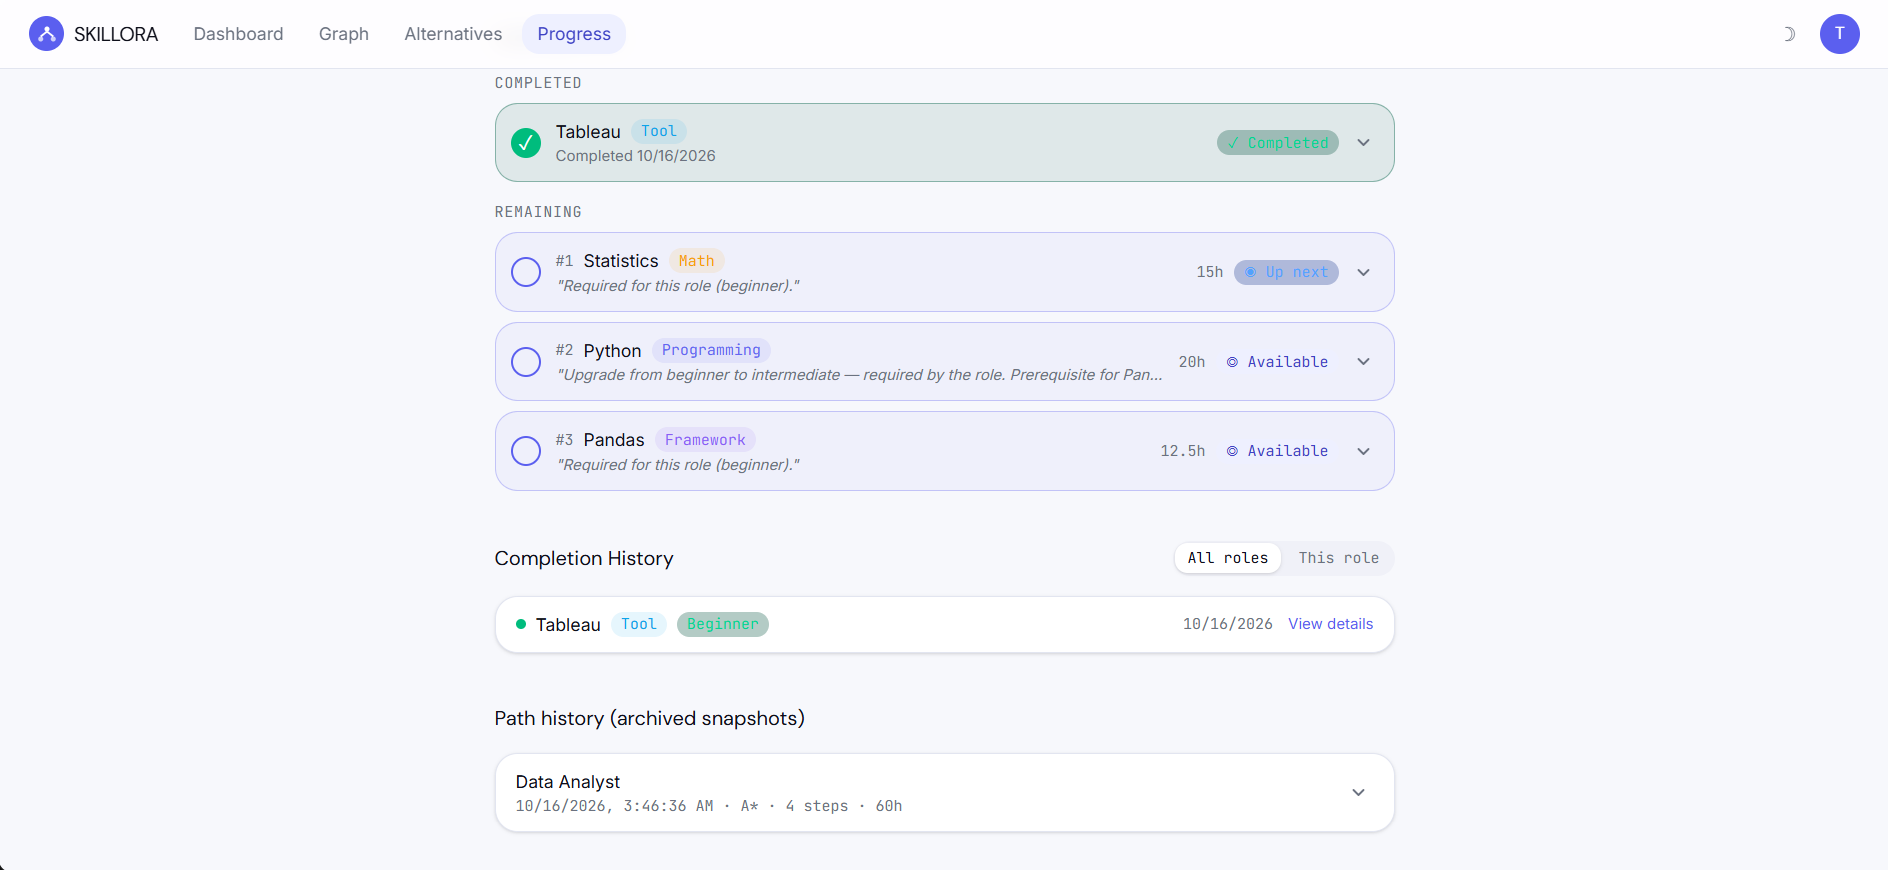
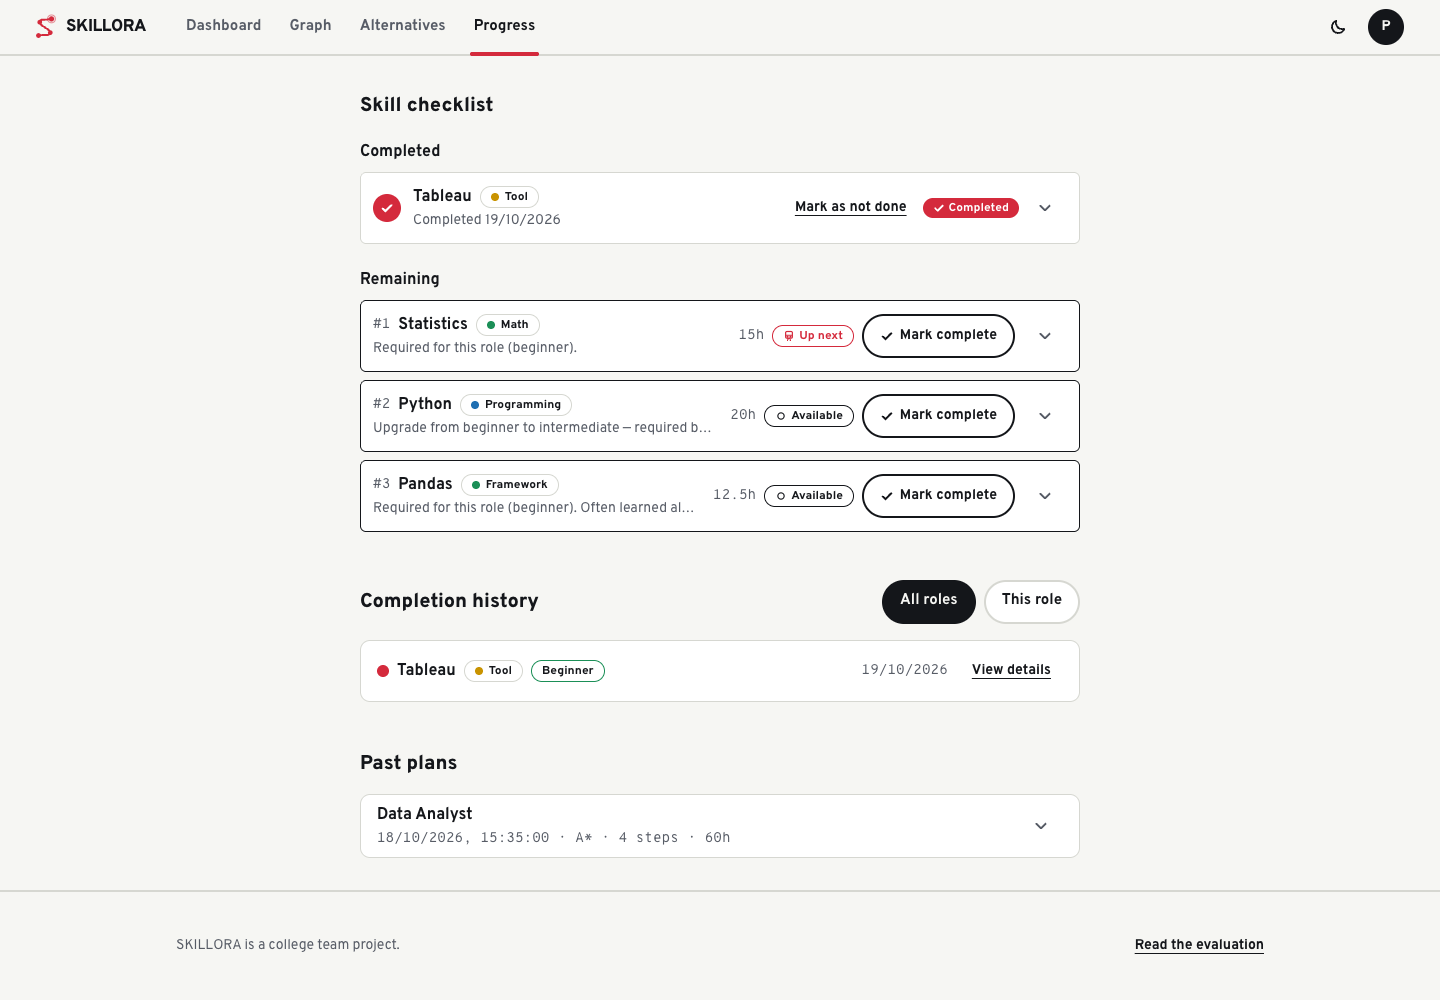
docs: live URLs, deployment architecture and refreshed user-guide screenshots

diff --git a/docs/USER_GUIDE.md b/docs/USER_GUIDE.md
@@ -2,7 +2,7 @@
 
 > **Status:** v1.1 · deliverable D7 (user guide) · wording matches the Transit interface (v4.2)
 >
-> **Note:** the screenshots below were taken before the Transit redesign. They will be refreshed after the first deployment; where a picture and the text differ, the text is current.
+> **Live app:** <https://skillora-black.vercel.app>. The screenshots below show the current Transit interface in light mode (plus one dark-mode view), taken with sample data for the worked example.
 
 SKILLORA builds you a personal, ordered learning roadmap for the job role you want. You tell it what you already know, pick a role, and it works out the shortest sensible sequence of skills to learn, explains why each one is there, and updates the plan as you make progress.
 
@@ -46,25 +46,25 @@ Go to **Settings → Account → Sign out**. This ends your session on the serve
 
 ## 2. Onboarding
 
-Onboarding has two steps, shown at the top of the page: **Your Skills** and **Target Role**.
+Onboarding has two steps, shown at the top of the page: **Your skills** and **Your destination**.
 
 ### Step 1: Your skills
 
-Tick every skill you already have. Skills are grouped by domain (Cloud, Database, Programming, Tool…), and each card shows roughly how many hours it takes to learn. Use the search box to find a skill quickly.
+Pick every skill you already have. Skills are grouped by domain (Cloud, Concept, Database, Programming, Tool…), and each one shows roughly how many hours it takes to learn. Use the search box to find a skill quickly.
 
-When you tick a skill, choose how well you know it: **beginner**, **intermediate** or **advanced**. Be honest but don't undersell yourself. A higher level can remove whole steps from your roadmap.
+Chosen skills appear in the **Your stations** panel, where you set how well you know each one: **beginner**, **intermediate** or **advanced**. Be honest but don't undersell yourself. A higher level can remove whole steps from your roadmap.
 
-In the example, Python is ticked at *beginner* and SQL at *intermediate*. New to everything? Click **I'm starting from scratch**.
+The **Next departures** board below it shows what your skills open up next. In the example, Python is set at *beginner* and SQL at *intermediate*. New to everything? Click **I'm starting from scratch**.
 
 ![Choosing skills and proficiency](user-guide/03-onboarding-skills.png)
 
-Click **Next: Pick your role**.
+Click **Next: choose your destination**.
 
 ### Step 2: Target role
 
-Each role card shows its field, a short description, its **market demand** bar and how many of its requirements you already meet (**has / needs**, for example *1/5 requirements met*). Click **Details** to see exactly which skills and levels the role requires. Sort or search to narrow the list.
+Roles are listed by field. Each row shows the role's **market demand** (for example *High demand*) and how many of its requirements you already meet (**has / needs**, for example *1/5 requirements met*). Click **Requirements** to see a short description and exactly which skills and levels the role requires, each marked *Have it*, *Need it* or *Have Beginner, need Intermediate*. Where any one of several tools will do (such as Power BI or Tableau) it says so. Sort or search to narrow the list.
 
-Select a role and click **Generate my path**.
+Click a role to select it (it is marked *Selected*), then click **Generate my path** at the bottom of the page.
 
 ![Choosing a target role](user-guide/04-onboarding-role.png)
 
@@ -82,12 +82,12 @@ The dashboard is your home page. It shows your roadmap as a metro line: each ski
 - **Journey line.** A single horizontal line with a train showing how far along you are ("% of the way there") and how many stops are done.
 - **Your stops.** Your skills in the order to learn them, drawn along the line. Each stop shows:
   - its estimated hours;
-  - its status: **Up next** (the one to start now), **Available** (prerequisites done) or **Locked** (an earlier stop is still needed);
+  - its state, shown by the marker on the line: **Up next** (the one to start now), **Available** (prerequisites done) or **Locked** (an earlier stop is still needed, with a line such as "Needs Python first");
   - the level change, e.g. *New → Beginner* or *Beginner → Intermediate*;
   - a plain reason why it is there, such as "Required for this role" or "Tableau route is 5h cheaper than Excel → Power BI route".
   Select a stop to open its skill details.
-- **Other routes.** If more than one route exists, a short preview with **Select this path**.
-- **Service status.** Time left, whether the order is valid (no stop comes before what it needs) and whether your plan is up to date.
+- **Other routes.** If more than one route exists, a short preview (hours, demand, score, and which skills it adds or drops) with **Select this path**.
+- **Service status.** Time left, whether the order is valid (no stop comes before what it needs) and whether your plan is up to date. Scroll down to see it.
 
 To record that you've learned a skill, open **Progress** and mark it complete there.
 
@@ -95,26 +95,30 @@ To record that you've learned a skill, open **Progress** and mark it complete th
 
 ## 4. Comparing alternatives
 
-Some roles let you choose between skills. The Data Analyst role needs *a* BI tool: Power BI **or** Tableau. Each choice gives a different route. Open **Alternatives** in the top bar (or **Compare paths** on the dashboard) to see them side by side.
+Some roles let you choose between skills. The Data Analyst role needs *a* BI tool: Power BI **or** Tableau. Each choice gives a different route. Open **Alternatives** in the top bar (or **Compare paths** on the dashboard) to see them side by side. The screenshot is cut off after the first charts; scroll the page for the rest.
 
 ![Comparing alternative paths](user-guide/06-alternatives.png)
 
-Each route card shows:
+The page has three parts:
 
-- **Hours**: total learning time for the remaining steps.
-- **Demand**: the average market demand of the skills on that route.
-- **Score**: a combined ranking. It mixes time (70 %) and demand (30 %): `0.7 × hours/maxHours + 0.3 × (1 − demand)`. **Lower is better.** The best-scoring route is marked *recommended*.
-- **Sequence**: the skills in order, with hours each.
+- **The routes on one map.** Every route is drawn as a line (your route in red, alternatives in other colours). Skills on every route sit where the lines meet; skills that belong to only one route are labelled *Primary only* or *Alternative 1 only*, each with its hours.
+- **Compare the routes.** One row per route showing:
+  - **Time**: total learning hours for the remaining steps.
+  - **Demand**: the average market demand of the skills on that route.
+  - **Stops**: how many skills it contains.
+  - **Score**: a combined ranking. It mixes time (70 %) and demand (30 %): `0.7 × hours/maxHours + 0.3 × (1 − demand)`. **Lower is better.** The best-scoring route is marked *recommended*.
+  - What the route chooses instead of the primary one (for example "Chooses Excel, Power BI instead of Tableau").
+- **Hours against demand.** A chart placing each route by hours and market demand.
 
 Click **Select this path** to switch to another route; your dashboard and progress follow it. Your active route is marked **Currently selected**.
 
-> In the screenshot the learner has already finished Tableau, so only one route is left ("Only one route exists for your profile"). Before that, the same page showed two routes: *Tableau* (60 h) and *Excel → Power BI* (65 h).
+> In the screenshot the learner has not started yet, so two routes exist: *Tableau* (60 h, primary) and *Excel → Power BI* (65 h). Once Tableau is finished, only one route is left ("Only one route exists for your profile").
 
 ---
 
 ## 5. Tracking progress
 
-Open **Progress** in the top bar.
+Open **Progress** in the top bar. The page is titled **Journey log**. The screenshots show the learner after finishing Tableau.
 
 ![Progress overview](user-guide/07-progress.png)
 

diff --git a/docs/DEPLOYMENT.md b/docs/DEPLOYMENT.md
@@ -44,10 +44,10 @@ Do the steps in this order. The Render services need the Vercel URL for `CLIENT_
    - `skillora-api`: `MONGO_URI`, `JWT_SECRET`, `INTERNAL_API_KEY`, `CLIENT_ORIGIN`, `PYTHON_SERVICE_URL`
    - `skillora-path`: `MONGO_URI`, `INTERNAL_API_KEY` (the same value as on the API)
 4. For `CLIENT_ORIGIN` enter `http://localhost:5173` for now; you will change it in step 3.
-5. For `PYTHON_SERVICE_URL` enter the public URL of the path service, `https://skillora-path.onrender.com` (the name in `render.yaml` decides the subdomain; if Render adds a suffix because the name is taken, use the URL shown on the `skillora-path` page).
+5. For `PYTHON_SERVICE_URL` enter the public URL of the path service, `https://skillora-path.onrender.com` for this deployment (the name in `render.yaml` decides the subdomain; if Render adds a suffix because the name is taken, use the URL shown on the `skillora-path` page).
 6. Apply. Wait for both services to be **Live**. Check:
-   - `https://skillora-api.onrender.com/api/stats/public` returns the skill and role counts.
-   - `https://skillora-api.onrender.com/api/docs` shows Swagger.
+   - `https://skillora-api-i3cs.onrender.com/api/stats/public` returns the skill and role counts.
+   - `https://skillora-api-i3cs.onrender.com/api/docs` shows Swagger.
    - `https://skillora-path.onrender.com/health` returns `"graphLoaded": true`.
 
 > **Why `PYTHON_SERVICE_URL` is typed in, not wired automatically.** Render can inject a service's private `host:port` with `fromService`/`hostport`, but that has no scheme and relies on private networking between sleeping free services. A plain public URL is the simplest reliable option. (The API also accepts a value with no scheme and adds `http://`, so the private form would work if you ever switch.)
@@ -57,15 +57,15 @@ Do the steps in this order. The Render services need the Vercel URL for `CLIENT_
 1. In Vercel choose **Add New, Project** and import the repository.
 2. **Root Directory:** `skillora-client`.
 3. **Framework Preset:** Vite (build command `npm run build`, output `dist`; the defaults are right).
-4. **Environment Variables:** `VITE_API_BASE_URL` = `https://skillora-api.onrender.com` (the API origin, no trailing path). This is required: the production build fails without it, because it also builds the page's Content-Security-Policy from this value.
-5. Deploy. Vercel gives you a URL such as `https://<your-app>.vercel.app`.
+4. **Environment Variables:** `VITE_API_BASE_URL` = `https://skillora-api-i3cs.onrender.com` (the API origin, no trailing path). This is required: the production build fails without it, because it also builds the page's Content-Security-Policy from this value.
+5. Deploy. Vercel gives you a URL such as `https://<your-app>.vercel.app` (this deployment: `https://skillora-black.vercel.app`).
 
 ### Step 3: set CLIENT_ORIGIN on Render
 
 Open the `skillora-api` service, Environment, and set `CLIENT_ORIGIN` to the Vercel URL. To keep local development working as well, give a comma-separated list:
 
 ```
-https://<your-app>.vercel.app,http://localhost:5173
+https://skillora-black.vercel.app,http://localhost:5173
 ```
 
 Use the exact origin: scheme and host, no path. A trailing slash is ignored. Save; Render redeploys the API.
@@ -91,7 +91,7 @@ Register, pick skills and a role, and confirm a path appears. The first request 
 | `INTERNAL_API_KEY` | yes (secret) | Sent to the path service as `X-Internal-Key`; must match the path service. |
 | `CLIENT_ORIGIN` | yes | Allowed browser origin(s) for CORS. One origin or a comma-separated list. Defaults to `http://localhost:5173`. |
 | `PYTHON_SERVICE_URL` | yes | Public URL of the path service. |
-| `PYTHON_TIMEOUT_MS` | preset `60000` | Timeout for path-service calls and the budget for waking it. |
+| `PYTHON_TIMEOUT_MS` | preset `90000` | Timeout for path-service calls and the budget for waking it. |
 | `JWT_EXPIRES_IN` | preset `7d` | Token lifetime. |
 | `NODE_ENV` | preset `production` | Enables proxy trust so rate limiting sees real client IPs. |
 | `PORT` | set by Render | Port the API binds to. Do not set it yourself. (On a Mac locally, use `5050`.) |
@@ -123,8 +123,8 @@ Run it once per secret. Use a **new** `JWT_SECRET` and a **new** `INTERNAL_API_K
 - To make the wait painless:
   - The landing, sign-in and register pages send one quiet request to `/api/stats/public`, which starts waking the API before you sign in.
   - When the API starts it pings the path service `/health` once.
-  - Before computing a path the API calls the path service `/health` and retries with backoff for up to about 60 s (never longer than `PYTHON_TIMEOUT_MS`), then makes the real call. If the service never answers, the usual 503 handling applies.
-  - The client waits up to 75 s for ordinary requests and 90 s for path computation, and after 4 s of waiting shows "Waking the planner — free hosting sleeps when idle. This can take up to a minute."
+  - Before computing a path the API calls the path service `/health` and retries with backoff for up to about 90 s (never longer than `PYTHON_TIMEOUT_MS`; a measured cold start of the path service took about 53 s), then makes the real call. If the service never answers, the usual 503 handling applies.
+  - The client waits up to 75 s for ordinary requests and 120 s for path computation, complete and undo, and after 4 s of waiting shows "Waking the planner — free hosting sleeps when idle. This can take up to a minute."
 - Vercel Hobby is free for non-commercial use and has no cold start for the static client.
 
 ## 6. Redeploys
@@ -152,12 +152,12 @@ The GitHub Student Pack includes a free `.me` domain for a year. In Vercel, Proj
 
 ## 9. Live URLs
 
-To be filled in after deployment.
-
 | What | URL |
 |---|---|
-| App | `https://<your-app>.vercel.app` |
-| API | `https://<your-api>.onrender.com` |
-| API docs | `https://<your-api>.onrender.com/api/docs` |
-| Path service | `https://<your-path-service>.onrender.com` |
-| Path service docs | `https://<your-path-service>.onrender.com/docs` |
+| App | https://skillora-black.vercel.app |
+| API | https://skillora-api-i3cs.onrender.com |
+| API docs (Swagger) | https://skillora-api-i3cs.onrender.com/api/docs |
+| Path service | https://skillora-path.onrender.com |
+| Path service docs (FastAPI) | https://skillora-path.onrender.com/docs |
+
+The API's subdomain has a suffix (`-i3cs`) because Render added one when `skillora-api` was created. The free services sleep when idle, so the first request after a quiet spell takes about a minute (see [section 5](#5-cold-starts-and-limits)).

diff --git a/docs/ARCHITECTURE.md b/docs/ARCHITECTURE.md
@@ -232,20 +232,35 @@ The template is [`.env.example`](../.env.example); setup steps are in [DEV_SETUP
 
 **Local development:** three processes (client 5173, api 5000, path service 5001) against the shared Atlas database `skillora_dev`.
 
-**Target (v1 submission, pending):**
+**Production (live):** the client, API and path service run on free tiers; the database is MongoDB Atlas M0.
 
 ```mermaid
 flowchart LR
-    user([Browser]) --> fe["Static hosting<br/>React build"]
-    user --> be["Node API<br/>(web service)"]
-    be -- "X-Internal-Key" --> ps["Path service<br/>(web service)"]
-    be --> atlas[(MongoDB Atlas)]
+    user([Browser]) --> fe["Vercel Hobby<br/>static React build<br/>skillora-black.vercel.app"]
+    user --> be["Render Free<br/>skillora-api (Node)<br/>skillora-api-i3cs.onrender.com"]
+    be -- "X-Internal-Key" --> ps["Render Free<br/>skillora-path (FastAPI)<br/>skillora-path.onrender.com"]
+    be --> atlas[("MongoDB Atlas M0")]
     ps --> atlas
 ```
 
-- Production values: `NODE_ENV=production`, `CLIENT_ORIGIN` = the frontend URL, `PYTHON_SERVICE_URL` = the path-service URL, `VITE_API_BASE_URL` = the API URL.
-- Free tiers that sleep idle services need a longer `PYTHON_TIMEOUT_MS` (≈ 60 000) or a `/health` wake-up call.
-- Atlas network access must allow the hosts' outbound IPs; the database user should have `readWrite` on the application database only.
+| Piece | Platform | Notes |
+|---|---|---|
+| Client | Vercel Hobby | Static Vite build. `skillora-client/vercel.json` rewrites every route to `index.html` (SPA). The page's Content-Security-Policy is a `<meta>` tag generated at build time from `VITE_API_BASE_URL`, so `connect-src` allows only `'self'` and the API origin. |
+| API | Render Free web service `skillora-api` | Defined in [`render.yaml`](../render.yaml) (Blueprint). |
+| Path service | Render Free web service `skillora-path` | Also in `render.yaml`. Called by the API over its public HTTPS URL. |
+| Database | MongoDB Atlas M0 | Network access `0.0.0.0/0` (Render free has no static outbound IPs); protected by a strong password. |
+
+**Environment and secrets.** Values are never committed. Secrets (`MONGO_URI`, `JWT_SECRET`, `INTERNAL_API_KEY`) are typed into the Render dashboard (`sync: false` in `render.yaml`); production secrets differ from local ones and `INTERNAL_API_KEY` is identical on the API and the path service. `CLIENT_ORIGIN` (API) lists the allowed browser origins, `PYTHON_SERVICE_URL` (API) is the path service's public URL, and `VITE_API_BASE_URL` is set in Vercel and baked into the client build (changing it needs a redeploy). `NODE_ENV=production` makes the API trust the proxy so rate limiting sees real client IPs.
+
+**Cold starts.** Render Free services sleep after 15 minutes without traffic and take about a minute to wake. Mitigations:
+
+- The landing, sign-in and register pages send one quiet request to `/api/stats/public`, which wakes the API before the user signs in.
+- On startup the API pings the path service `/health`; before computing a path it polls `/health` with backoff (within `PYTHON_TIMEOUT_MS`, 90 s; measured cold start about 53 s) and then makes the real call.
+- The client waits up to 75 s for ordinary requests and 120 s for path computation, complete and undo, and shows "Waking the planner" after 4 s.
+
+**Limits.** Free web services get 750 instance-hours per month (sleeping time is not counted). Two always-on services would need about 1,488 hours, so no keep-alive pinger is used.
+
+**Releases.** Render and Vercel deploy automatically on every push to `main`. Full steps, variables and troubleshooting: [DEPLOYMENT.md](DEPLOYMENT.md).
 
 ## 11. Repository layout
 

diff --git a/docs/CHANGELOG.md b/docs/CHANGELOG.md
@@ -14,7 +14,7 @@ Transit frontend redesign, undo for completed skills, and free-tier deployment c
 | 4 | Heavy routes (graph, admin, progress) were in the main bundle. | Lazy-loaded per route. |
 | 5 | Graph hover gave no reason for a locked skill and was not keyboard accessible. | Hover cards say "Locked: still needs …"; nodes are focusable and show the card on focus. |
 | 6 | No deployment configuration; CORS accepted a single origin; free hosting sleeps when idle. | `render.yaml` (two free Render web services), `skillora-client/vercel.json` (SPA rewrite, security headers), `CLIENT_ORIGIN` accepts a comma-separated list, the API binds to `$PORT`, `dnspython` added for Atlas `mongodb+srv` URIs. See [DEPLOYMENT.md](DEPLOYMENT.md). |
-| 7 | A cold path service made the first compute fail or time out. | The API polls the path service `/health` with backoff (up to 60 s, honouring `PYTHON_TIMEOUT_MS`) before compute and pings it once at startup; the client pings `/api/stats/public` on the landing and auth pages and shows "Waking the planner" after 4 s of waiting. Client request timeout raised to 75 s (90 s for compute). |
+| 7 | A cold path service made the first compute fail or time out. | The API polls the path service `/health` with backoff (up to 90 s, honouring `PYTHON_TIMEOUT_MS`; preset 90000) before compute and pings it once at startup; the client pings `/api/stats/public` on the landing and auth pages and shows "Waking the planner" after 4 s of waiting. Client request timeout raised to 75 s (120 s for compute, complete and undo). |
 
 ## v4.1 — 2026-10-15
 

diff --git a/README.md b/README.md
@@ -2,6 +2,8 @@
 
 > A personalised upskilling-path recommender that models skills as a knowledge graph and computes the minimum-effort, prerequisite-respecting learning path to a target role with A\* search.
 
+**Live demo:** [skillora-black.vercel.app](https://skillora-black.vercel.app) · API docs: [skillora-api-i3cs.onrender.com/api/docs](https://skillora-api-i3cs.onrender.com/api/docs). Hosted on free tiers: the first load after a quiet spell can take about a minute while the services wake up.
+
 ## What it does
 
 A user enters the skills they already have and picks a target job role. SKILLORA computes the cheapest ordered set of skills still to learn, explains why each step is there, offers ranked alternative routes (for example Tableau versus Power BI), and recomputes the plan as the user marks skills complete. Scope and goals: [docs/PRD.md](docs/PRD.md).

diff --git a/docs/README.md b/docs/README.md
@@ -2,6 +2,8 @@
 
 Start here. Each document has one job; together they replace the former single specification (see [the mapping below](#where-the-old-specification-went)).
 
+**Live:** app <https://skillora-black.vercel.app> · API docs <https://skillora-api-i3cs.onrender.com/api/docs> · path service docs <https://skillora-path.onrender.com/docs> (see [DEPLOYMENT.md](DEPLOYMENT.md#9-live-urls)).
+
 ## Documents
 
 | Document | Answers | Audience |
